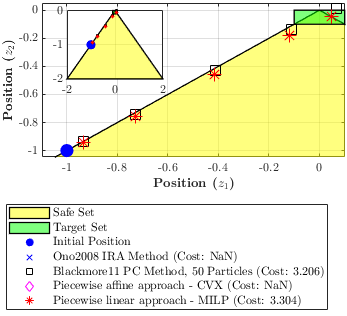
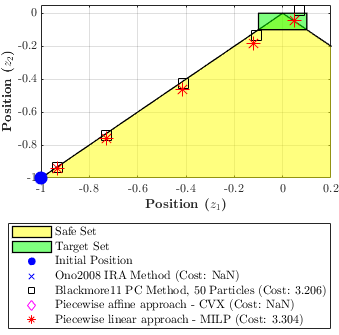
Pushing changes and will debug BlackmoreTRo11.m

Changed region(s): [[0.0, 0.0, 1.0, 0.9968]]

diff --git a/Figure3a.m b/Figure3a.m
@@ -166,17 +166,17 @@
         h1 = plot(safe_set.slice([3,4], slice_at_vx_vy), 'color', 'y','alpha',0.5);
         h2 = plot(target_set.slice([3,4], slice_at_vx_vy), 'color', 'g','alpha',0.5);
         h3 = scatter(x0(1),x0(2),10*plot_markersize,'bo','filled');
-        h4 = scatter([x0(1); ono_opt_mean_X(1:4:end)],...
-                    [x0(2); ono_opt_mean_X(2:4:end)],...
+        h4 = scatter(ono_opt_mean_X(1:4:end),...
+                    ono_opt_mean_X(2:4:end),...
                     10*plot_markersize, 'bx');
-        h5 = scatter([x0(1); blackmore_opt_mean_X(1:4:end)],...
-                    [x0(2); blackmore_opt_mean_X(2:4:end)],...
+        h5 = scatter(blackmore_opt_mean_X(1:4:end),...
+                    blackmore_opt_mean_X(2:4:end),...
                     10*plot_markersize, 'ks');
-        h6 = scatter([x0(1); onopwl_opt_mean_X(1:4:end)],...
-                    [x0(2); onopwl_opt_mean_X(2:4:end)],...
+        h6 = scatter(onopwl_opt_mean_X(1:4:end),...
+                    onopwl_opt_mean_X(2:4:end),...
                     10*plot_markersize, 'md');
-        h7 = scatter([x0(1); pwa_opt_mean_X(1:4:end)],...
-                    [x0(2); pwa_opt_mean_X(2:4:end)],...
+        h7 = scatter(pwa_opt_mean_X(1:4:end),...
+                    pwa_opt_mean_X(2:4:end),...
                     10*plot_markersize, 'r*');
 
         
@@ -200,11 +200,12 @@
             'Location','SouthOutside','FontSize',plot_fontSize);
         box on;
         axis tight
+        axis([-1 0.2 -1 0.05])
         set(gca,'FontSize',plot_fontSize)
         set(fig3,'Units','centimeters');
         set(fig3,'Position',[0 0 10 10]);
         fig3 = tightfig(fig3);
-        hgexport(fig3,'Figure3',hgexport('factorystyle'),'Format', 'png')
+        hgexport(fig3,'Figure3a',hgexport('factorystyle'),'Format', 'png')
     
 
 %% Monte-Carlo simulation using SReachTools

diff --git a/Figure3b.m b/Figure3b.m
@@ -200,6 +200,7 @@
             'Location','SouthOutside','FontSize',plot_fontSize);
         box on;
         axis tight
+        axis([-1 0.2 -1 0.05])
         set(gca,'FontSize',plot_fontSize)
         set(fig3,'Units','centimeters');
         set(fig3,'Position',[0 0 10 10]);
